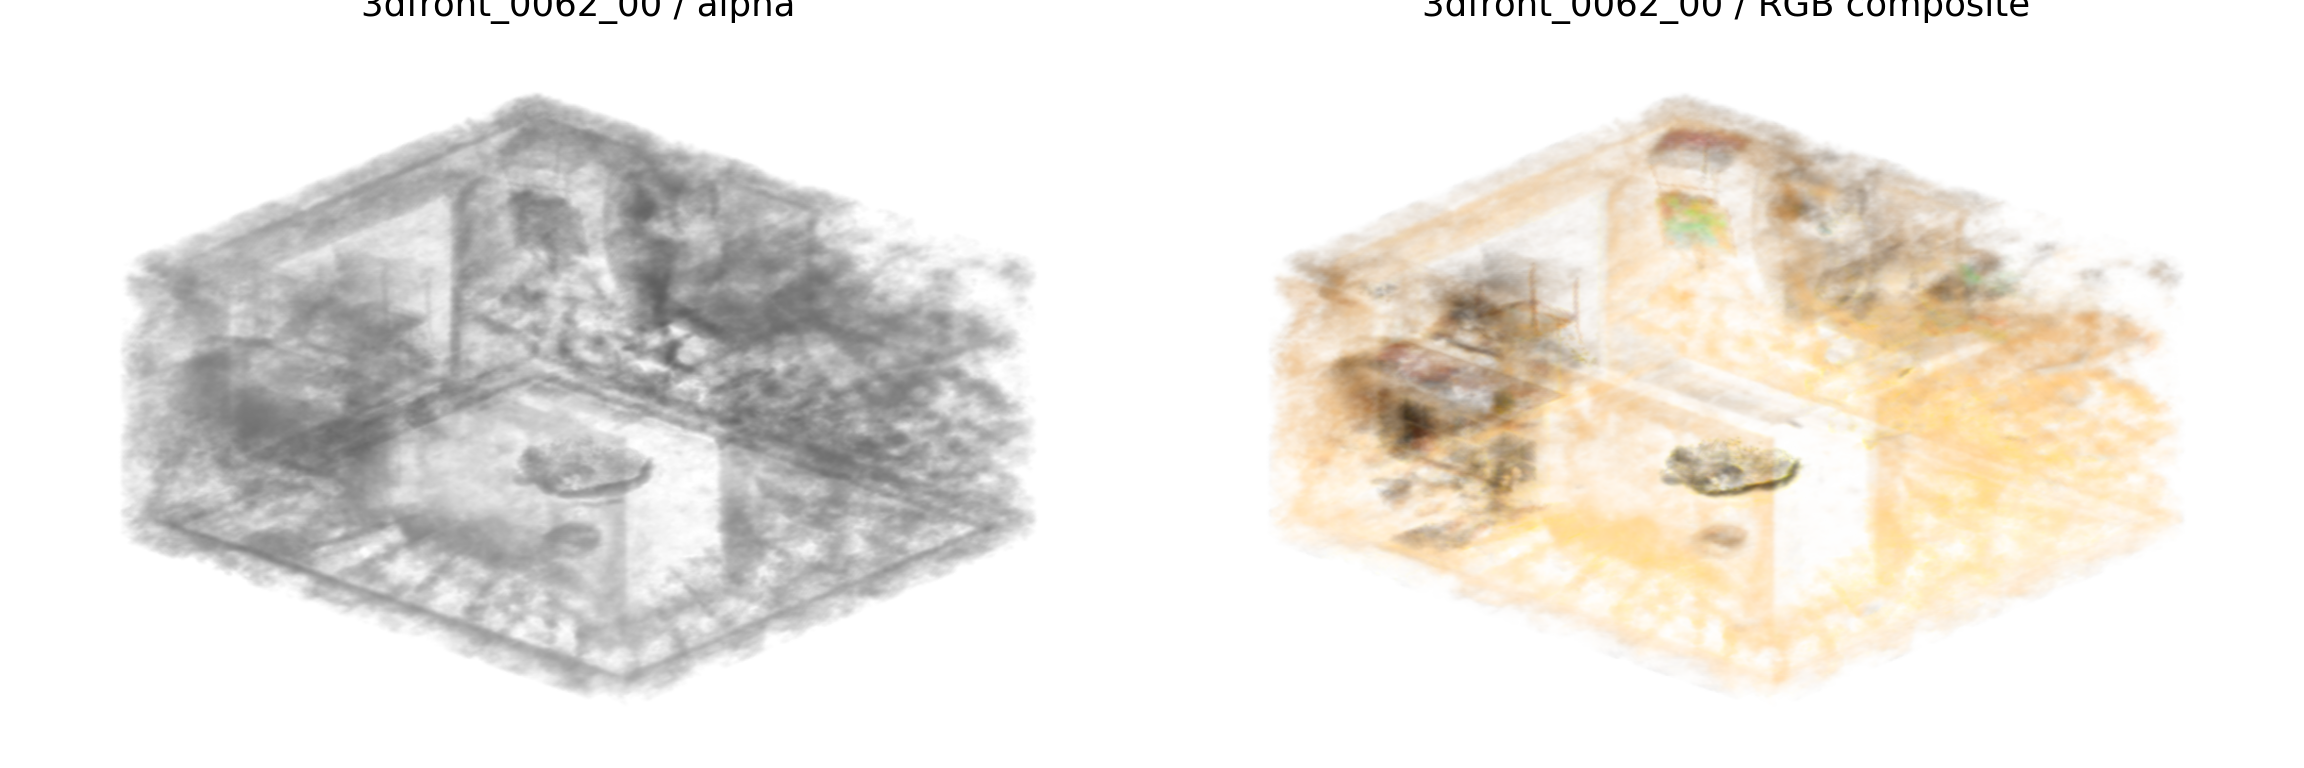
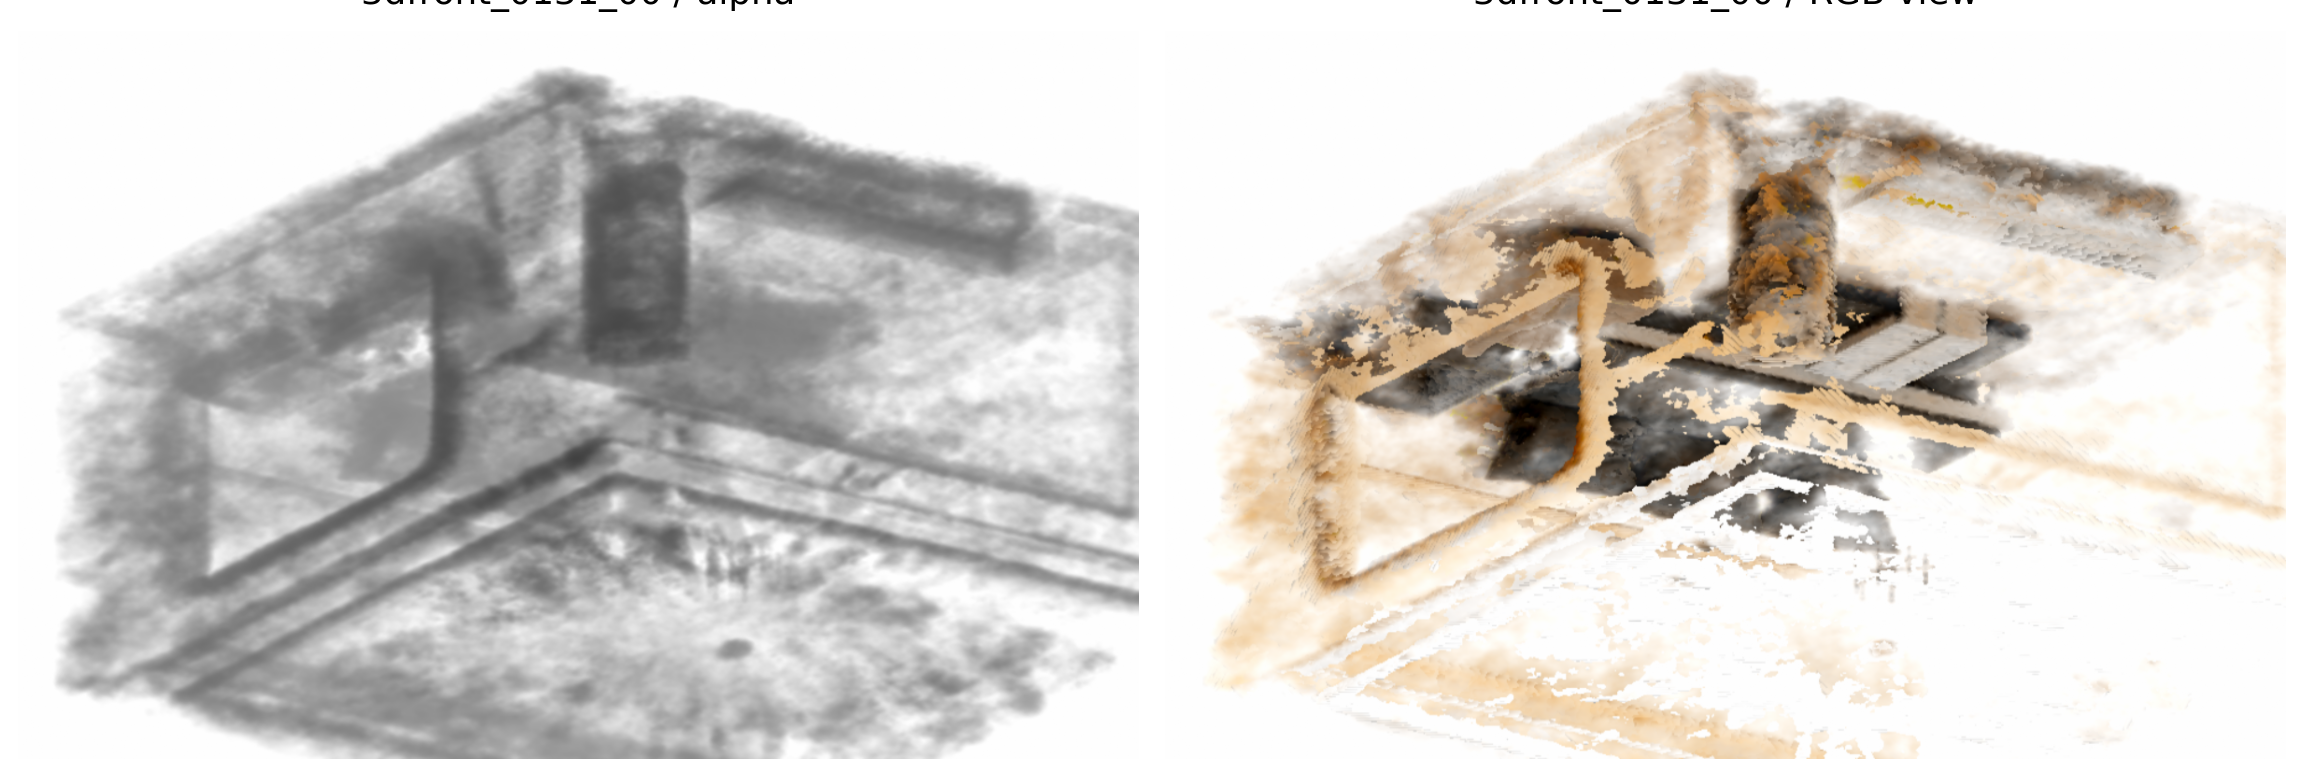
Refine Fig1 Front3D partial view render

diff --git a/figures_src/render_front3d_fig1_volume.py b/figures_src/render_front3d_fig1_volume.py
@@ -161,6 +161,7 @@ def composite_tile(
     depth_values: torch.Tensor,
     alpha_threshold: float,
     opacity_scale: float,
+    rgb_mode: str,
 ) -> tuple[torch.Tensor, torch.Tensor, torch.Tensor]:
     # samples: `[4, S, H, W]`, sampled front-to-back.
     rgb = samples[:3].permute(1, 2, 3, 0).clamp(0.0, 1.0)
@@ -174,9 +175,89 @@ def composite_tile(
     trans_exclusive = torch.cat([torch.ones_like(trans_inclusive[:1]), trans_inclusive[:-1]], dim=0)
     weights = trans_exclusive * a
     opacity = weights.sum(dim=0).clamp(0.0, 1.0)
-    color = (weights[..., None] * rgb).sum(dim=0)
+    if rgb_mode == "surface":
+        idx = weights.argmax(dim=0)
+        surface_color = torch.gather(
+            rgb,
+            dim=0,
+            index=idx[None, ..., None].expand(1, idx.shape[0], idx.shape[1], 3),
+        ).squeeze(0)
+        color = surface_color * opacity[..., None]
+    else:
+        color = (weights[..., None] * rgb).sum(dim=0)
     depth = (weights * depth_values[:, None, None]).sum(dim=0) / opacity.clamp_min(1e-6)
     return color, opacity, depth
+
+
+def parse_crop(crop: str | None) -> tuple[float, float, float, float] | None:
+    if not crop:
+        return None
+    values = [float(v.strip()) for v in crop.split(",")]
+    if len(values) != 4:
+        raise ValueError("--image-crop must have four comma-separated fractions: x0,y0,x1,y1")
+    x0, y0, x1, y1 = values
+    if not (0.0 <= x0 < x1 <= 1.0 and 0.0 <= y0 < y1 <= 1.0):
+        raise ValueError("--image-crop fractions must satisfy 0 <= x0 < x1 <= 1 and 0 <= y0 < y1 <= 1")
+    return x0, y0, x1, y1
+
+
+def crop_and_resize(img: np.ndarray, crop: tuple[float, float, float, float] | None) -> np.ndarray:
+    if crop is None:
+        return img
+    h, w = img.shape[:2]
+    x0, y0, x1, y1 = crop
+    ix0 = max(0, min(w - 1, int(round(x0 * w))))
+    ix1 = max(ix0 + 1, min(w, int(round(x1 * w))))
+    iy0 = max(0, min(h - 1, int(round(y0 * h))))
+    iy1 = max(iy0 + 1, min(h, int(round(y1 * h))))
+    sub = img[iy0:iy1, ix0:ix1]
+    tensor = torch.from_numpy(sub).permute(2, 0, 1).unsqueeze(0).float()
+    resized = F.interpolate(tensor, size=(h, w), mode="bilinear", align_corners=False)
+    return resized.squeeze(0).permute(1, 2, 0).numpy()
+
+
+def trim_pair_to_content(
+    rgb_img: np.ndarray,
+    alpha_img: np.ndarray,
+    threshold: float,
+    margin: float,
+) -> tuple[np.ndarray, np.ndarray]:
+    """Trim pair using alpha/structure non-white support, then resize back."""
+    if threshold >= 1.0:
+        return rgb_img, alpha_img
+    h, w = alpha_img.shape[:2]
+    support = np.min(alpha_img, axis=-1) < threshold
+    if not support.any():
+        return rgb_img, alpha_img
+    ys, xs = np.where(support)
+    x0, x1 = int(xs.min()), int(xs.max()) + 1
+    y0, y1 = int(ys.min()), int(ys.max()) + 1
+    pad_x = int(round(margin * max(x1 - x0, 1)))
+    pad_y = int(round(margin * max(y1 - y0, 1)))
+    x0 = max(0, x0 - pad_x)
+    x1 = min(w, x1 + pad_x)
+    y0 = max(0, y0 - pad_y)
+    y1 = min(h, y1 + pad_y)
+    crop = (x0 / w, y0 / h, x1 / w, y1 / h)
+    return crop_and_resize(rgb_img, crop), crop_and_resize(alpha_img, crop)
+
+
+def smooth_image(img: np.ndarray, sigma: float) -> np.ndarray:
+    if sigma <= 0.0:
+        return img
+    radius = max(1, int(math.ceil(3.0 * sigma)))
+    coords = torch.arange(-radius, radius + 1, dtype=torch.float32)
+    kernel_1d = torch.exp(-(coords**2) / (2.0 * sigma * sigma))
+    kernel_1d = kernel_1d / kernel_1d.sum()
+    c = img.shape[-1]
+    tensor = torch.from_numpy(img).permute(2, 0, 1).unsqueeze(0).float()
+    kernel_x = kernel_1d.view(1, 1, 1, -1).repeat(c, 1, 1, 1)
+    kernel_y = kernel_1d.view(1, 1, -1, 1).repeat(c, 1, 1, 1)
+    tensor = F.pad(tensor, (radius, radius, 0, 0), mode="reflect")
+    tensor = F.conv2d(tensor, kernel_x, groups=c)
+    tensor = F.pad(tensor, (0, 0, radius, radius), mode="reflect")
+    tensor = F.conv2d(tensor, kernel_y, groups=c)
+    return tensor.squeeze(0).permute(1, 2, 0).numpy().clip(0.0, 1.0)
 
 
 def boost_saturation(img: np.ndarray, factor: float) -> np.ndarray:
@@ -191,6 +272,12 @@ def boost_saturation(img: np.ndarray, factor: float) -> np.ndarray:
     return np.clip(luma[..., None] + factor * (img - luma[..., None]), 0.0, 1.0)
 
 
+def adjust_contrast(img: np.ndarray, factor: float) -> np.ndarray:
+    if abs(factor - 1.0) < 1e-6:
+        return img
+    return np.clip((img - 0.5) * factor + 0.5, 0.0, 1.0)
+
+
 def render_volume(
     volume: torch.Tensor,
     native_shape_xyz: np.ndarray,
@@ -203,12 +290,27 @@ def render_volume(
     opacity_scale: float,
     padding: float,
     saturation: float,
+    rgb_contrast: float,
+    crop: tuple[float, float, float, float] | None,
+    trim_threshold: float,
+    trim_margin: float,
+    smooth_sigma: float,
+    rgb_mode: str,
+    depth_min: float,
+    depth_max: float,
 ) -> tuple[np.ndarray, np.ndarray]:
     lo, hi, aspect, rot = camera_bounds(native_shape_xyz, view, padding)
     x = torch.linspace(float(lo[0]), float(hi[0]), width)
     y = torch.linspace(float(hi[1]), float(lo[1]), height)
-    z = torch.linspace(float(hi[2]), float(lo[2]), samples)  # front-to-back
-    depth_norm = torch.linspace(0.0, 1.0, samples)
+    depth_min = float(np.clip(depth_min, 0.0, 1.0))
+    depth_max = float(np.clip(depth_max, 0.0, 1.0))
+    if depth_min >= depth_max:
+        raise ValueError("--depth-min must be smaller than --depth-max")
+    z_span = float(hi[2] - lo[2])
+    z_front = float(hi[2]) - depth_min * z_span
+    z_back = float(hi[2]) - depth_max * z_span
+    z = torch.linspace(z_front, z_back, samples)  # front-to-back
+    depth_norm = torch.linspace(depth_min, depth_max, samples)
     rot_t = torch.from_numpy(rot.astype(np.float32))
     aspect_t = torch.from_numpy(aspect.astype(np.float32))
 
@@ -231,12 +333,13 @@ def render_volume(
                 padding_mode="zeros",
                 align_corners=True,
             ).squeeze(0)
-        color, opacity, depth = composite_tile(sampled, depth_norm, alpha_threshold, opacity_scale)
+        color, opacity, depth = composite_tile(sampled, depth_norm, alpha_threshold, opacity_scale, rgb_mode)
         rgb_out[y0:y1] = color + (1.0 - opacity[..., None])
         opacity_out[y0:y1] = opacity
         depth_out[y0:y1] = depth
 
-    rgb_img = boost_saturation(rgb_out.clamp(0.0, 1.0).numpy(), saturation)
+    rgb_img = rgb_out.clamp(0.0, 1.0).numpy()
+    rgb_img = adjust_contrast(boost_saturation(rgb_img, saturation), rgb_contrast)
     opacity_np = opacity_out.clamp(0.0, 1.0).numpy()
     depth_np = depth_out.clamp(0.0, 1.0).numpy()
     alpha_strength = np.clip(opacity_np**0.75, 0.0, 1.0)
@@ -245,7 +348,10 @@ def render_volume(
     gray_far = np.array([0.70, 0.70, 0.70], dtype=np.float32)
     structure_color = gray_far[None, None, :] * (1.0 - front_shade[..., None]) + gray_near[None, None, :] * front_shade[..., None]
     alpha_img = (1.0 - alpha_strength[..., None]) + alpha_strength[..., None] * structure_color
-    return rgb_img, np.clip(alpha_img, 0.0, 1.0)
+    rgb_img = crop_and_resize(rgb_img, crop)
+    alpha_img = crop_and_resize(np.clip(alpha_img, 0.0, 1.0), crop)
+    rgb_img, alpha_img = trim_pair_to_content(rgb_img, alpha_img, trim_threshold, trim_margin)
+    return smooth_image(rgb_img, smooth_sigma), smooth_image(alpha_img, smooth_sigma)
 
 
 def save_image(img: np.ndarray, out_path: Path, dpi: int) -> None:
@@ -261,7 +367,7 @@ def save_image(img: np.ndarray, out_path: Path, dpi: int) -> None:
 
 def make_pair(alpha_path: Path, rgb_path: Path, out_path: Path, dpi: int, labeled: bool) -> None:
     imgs = [plt.imread(alpha_path), plt.imread(rgb_path)]
-    labels = ["alpha / structure view", "opacity-composited RGB view"]
+    labels = ["alpha / structure view", "RGB appearance view"]
     fig, axes = plt.subplots(1, 2, figsize=(8.0, 4.0), dpi=dpi)
     for ax, img, label in zip(axes, imgs, labels):
         ax.imshow(img)
@@ -291,7 +397,7 @@ def make_contact_sheet(rows: list[tuple[str, Path, Path]], out_path: Path, dpi: 
         for col, path in enumerate([alpha_path, rgb_path]):
             axes[row, col].imshow(plt.imread(path))
             axes[row, col].axis("off")
-            axes[row, col].set_title(f"{label} / {'alpha' if col == 0 else 'RGB composite'}", fontsize=8)
+            axes[row, col].set_title(f"{label} / {'alpha' if col == 0 else 'RGB view'}", fontsize=8)
     fig.tight_layout(pad=0.2)
     out_path.parent.mkdir(parents=True, exist_ok=True)
     fig.savefig(out_path, dpi=dpi)
@@ -340,9 +446,18 @@ def main() -> None:
     parser.add_argument("--dpi", type=int, default=240)
     parser.add_argument("--gamma", type=float, default=1.25)
     parser.add_argument("--saturation", type=float, default=2.2)
+    parser.add_argument("--rgb-contrast", type=float, default=1.0)
+    parser.add_argument("--image-crop", type=str, default=None, help="Optional crop fractions x0,y0,x1,y1, resized back to output size.")
+    parser.add_argument("--trim-threshold", type=float, default=1.0, help="If < 1, auto-trim non-white structure support before saving.")
+    parser.add_argument("--trim-margin", type=float, default=0.08)
+    parser.add_argument("--smooth-sigma", type=float, default=0.0)
+    parser.add_argument("--rgb-mode", choices=("composite", "surface"), default="composite")
+    parser.add_argument("--depth-min", type=float, default=0.0)
+    parser.add_argument("--depth-max", type=float, default=1.0)
     parser.add_argument("--no-auto-exposure", action="store_true")
     parser.add_argument("--render-view-candidates", action="store_true")
     args = parser.parse_args()
+    crop = parse_crop(args.image_crop)
 
     rendered: list[tuple[str, Path, Path]] = []
     for feature_path in choose_feature_paths(args):
@@ -360,6 +475,14 @@ def main() -> None:
             args.opacity_scale,
             args.padding,
             args.saturation,
+            args.rgb_contrast,
+            crop,
+            args.trim_threshold,
+            args.trim_margin,
+            args.smooth_sigma,
+            args.rgb_mode,
+            args.depth_min,
+            args.depth_max,
         )
         alpha_path = args.out_dir / f"{feature_path.stem}_alpha.png"
         rgb_path = args.out_dir / f"{feature_path.stem}_rgb.png"
@@ -384,6 +507,14 @@ def main() -> None:
                     args.opacity_scale,
                     args.padding,
                     args.saturation,
+                    args.rgb_contrast,
+                    crop,
+                    args.trim_threshold,
+                    args.trim_margin,
+                    args.smooth_sigma,
+                    args.rgb_mode,
+                    args.depth_min,
+                    args.depth_max,
                 )
                 alpha_v_path = view_dir / f"{feature_path.stem}_{view.name}_alpha.png"
                 rgb_v_path = view_dir / f"{feature_path.stem}_{view.name}_rgb.png"

diff --git a/figures_src/fig1_front3d_volume_final/README.md b/figures_src/fig1_front3d_volume_final/README.md
@@ -1,42 +1,57 @@
 # Fig. 1 Front3D Volume Render Asset
 
 Selected scene:
-- `3dfront_0062_00`
+- `3dfront_0131_00`
 
 Source:
-- `dataset/finetune/front3d_rpn_data/features/3dfront_0062_00.npz`
+- `dataset/finetune/front3d_rpn_data/features/3dfront_0131_00.npz`
 - This is a released Front3D NeRF-RPN/NeRF-MAE `rgbsigma` grid, not a schematic.
 
 Why this scene was selected:
-- The alpha-only render exposes room-scale structure and furniture layout.
-- The RGB render shows visible appearance/color signal on the same geometry.
-- The scene has enough objects to make the structure/appearance contrast
-  visually legible without being too cluttered for a first-page conceptual
-  figure.
-- It is more legible than the earlier `3dfront_0135_00` candidate, whose
-  occupied RGB values are mostly low-chroma beige/gray and therefore looked
-  nearly grayscale after white-background volume compositing.
+- The cropped view shows an indoor subregion rather than the entire room, closer
+  to the way NeRF-MAE uses rendered scene snippets in its figures.
+- The alpha view exposes wall/floor/furniture structure on the same crop.
+- The RGB view contains a readable appearance signal on the same geometry.
+- It was selected from a wider candidate scan because it is less cluttered than
+  the full-room `3dfront_0062_00` and `3dfront_0135_00` candidates.
 
 Rendered assets:
-- `3dfront_0062_00_alpha.png`: opacity-composited alpha/structure view.
-- `3dfront_0062_00_rgb.png`: opacity-composited RGB/appearance view.
-- `fig1_front3d_0062_alpha_rgb_pair_clean.png`: clean side-by-side preview.
-- `fig1_front3d_0062_alpha_rgb_pair.png`: labeled side-by-side preview.
-- `3dfront_0062_00_view_contact_sheet.png`: three fixed view candidates.
+- `3dfront_0131_00_alpha.png`: cropped alpha/structure view.
+- `3dfront_0131_00_rgb.png`: cropped RGB/appearance view.
+- `fig1_front3d_0131_alpha_rgb_pair_clean.png`: clean side-by-side preview.
+- `fig1_front3d_0131_alpha_rgb_pair.png`: labeled side-by-side preview.
+- `3dfront_0131_00_view_contact_sheet.png`: three fixed view candidates.
 
-This supersedes the earlier scatter/point-splat render. The current assets are
-generated by orthographic ray marching through the released `rgbsigma` grid and
-front-to-back alpha compositing.
+View policy:
+- This directory currently contains the **external partial-volume view**: a
+  clean, cropped view from outside the released `rgbsigma` grid. It is intended
+  for the Fig. 1 concept panel.
+- A second **test-render-aligned view** would be useful for side-by-side
+  comparison with GT/test RGB renders. It is not generated here because the
+  current workspace does not contain the required rendered RGB image,
+  `transforms.json`, or trained Instant-NGP checkpoint for this Front3D scene.
+  If those artifacts become available, generate that view as a separate asset
+  rather than replacing this external view.
+
+This supersedes the earlier scatter/point-splat render and the full-room
+transparent render. The current assets are generated by orthographic ray
+marching through the released `rgbsigma` grid, then editorially cropped and
+trimmed for a first-page conceptual figure.
 
 Generation command:
 
 ```bash
 python figures_src/render_front3d_fig1_volume.py \
-  --scene 3dfront_0062_00 \
+  --scene 3dfront_0131_00 \
   --out-dir figures_src/fig1_front3d_volume_final \
-  --width 1120 --height 760 --samples 224 --tile-rows 28 \
-  --dpi 320 --alpha-threshold 0.05 --opacity-scale 0.11 \
-  --azimuth -42 --elevation 57 --saturation 2.4 \
+  --width 1200 --height 780 --samples 192 --tile-rows 30 \
+  --dpi 320 --alpha-threshold 0.07 --opacity-scale 0.17 \
+  --azimuth -34 --elevation 60 \
+  --saturation 1.9 --rgb-contrast 1.08 \
+  --image-crop 0.04,0.02,0.86,0.82 \
+  --depth-min 0.02 --depth-max 0.82 \
+  --trim-threshold 0.985 --trim-margin 0.05 \
+  --smooth-sigma 0.4 --rgb-mode surface \
   --render-view-candidates
 ```
 
@@ -46,12 +61,16 @@ Rendering details:
   `alpha = clip(1 - exp(-exp(density) / 100), 0, 1)`.
 - RGB values are exposure-normalized from occupied voxels and clipped to
   `[0, 1]` for visualization.
-- RGB output is composited as `C = sum_i T_i * alpha_i * rgb_i` over a white
-  background.
+- RGB output uses a surface-color view: each ray takes the representative
+  high-opacity sample and blends it over a white background. This is less noisy
+  than showing the whole-room transparent color integral.
 - The RGB view applies luminance-preserving saturation enhancement for figure
   readability. This does not create semantic colors; it only amplifies chroma
   already present in the released radiance grid.
 - The alpha/structure output uses the same camera and accumulated opacity, with
   grayscale depth shading to expose room-scale structure.
+- The crop, depth slab, auto-trim, and light smoothing are figure-display
+  operations. The underlying source remains the released Front3D `rgbsigma`
+  grid; this is not an Instant-NGP photorealistic render.
 - The final pair is intended as a data-derived visual asset for the Fig. 1
   conceptual comparison; quantitative results should remain in Fig. 2 / Table 1.
